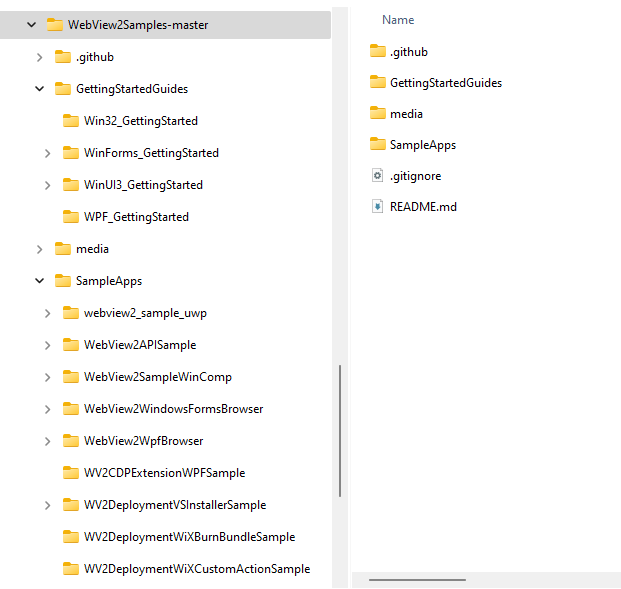
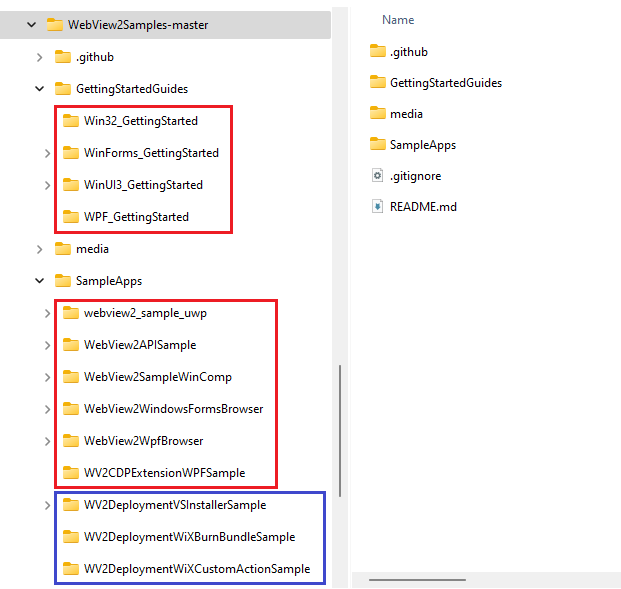
Clarified downloaded dirs in File Explorer capture, stated an .sln location for main win32 sample

Changed region(s): [[0.0612, 0.489, 0.5507, 1.0], [0.0612, 0.1834, 0.3977, 0.3973], [0.0918, 0.1528, 0.3671, 0.1834]]

diff --git a/microsoft-edge/webview2/code-samples-links.md b/microsoft-edge/webview2/code-samples-links.md
@@ -21,32 +21,6 @@ This article is about understanding what samples, `.sln` files, and `README.md` 
 
 
 <!-- ====================================================================== -->
-## Directory structure of the WebView2Samples repo
-
-For general initial Dev environment setup, you can open any of the `.sln` files from the `WebView2Samples` repo:
-
-*  One of the four platform-specific `.sln` files in the [GettingStartedGuides directory](https://github.com/MicrosoftEdge/WebView2Samples/tree/master/GettingStartedGuides).
-
-*  The multi-platform, comprehensive-API `.sln` file in the [SampleApps directory](https://github.com/MicrosoftEdge/WebView2Samples/tree/master/SampleApps).  Has a long [WebView2 API Sample README file](https://github.com/MicrosoftEdge/WebView2Samples/tree/master/SampleApps/WebView2APISample#readme).
-
-*  One of the five platform-specific, comprehensive-API `.sln` files in the [SampleApps directory](https://github.com/MicrosoftEdge/WebView2Samples/tree/master/SampleApps).
-
-
-The `WebView2Samples` repo has two main parts:
-
-*  A set of Get Started solutions (`.sln` files and their various project files).  There is a `README.md` file for each `.sln` file; most of them are very short.  Most documentation is in the present set of articles.
-
-*  A set of comprehensive-API, platform-specific samples (each with its own directory and `.sln` file), including a multi-platform, comprehensive-API `.sln` file.
-
-
-To clone or download this repo, see [Set up your Dev environment for WebView2](how-to/machine-setup.md).
-
-*  If you clone the repo, you can update your local copy using git commands or features of various Dev apps.
-
-*  If you download the repo as a `.zip` file, you get a snapshot copy of the repo.  You can then download another, updated copy of the repo later.
-
-
-<!-- ====================================================================== -->
 ## Sample code for Get Started guides
 
 The WebView2 Get Started guides use starter code for Win32, Windows Presentation Foundation (WPF), WinForms, and WinUI.  These are not comprehensive-API examples, but only demonstrate a few API items.
@@ -81,7 +55,7 @@ The `WebView2Samples` repo contains the following projects.  These projects are 
 
 | Type of sample | Sample Project | Description |
 |---|---|---|
-| Win32 C++ | [WebView2APISample](https://github.com/MicrosoftEdge/WebView2Samples/tree/master/SampleApps/WebView2APISample) | Embeds a WebView2 within a Win32 native application.  Illustrates a selection of WebView2 event handlers and API methods that allow a native Win32 application to directly interact with a WebView and vice versa.<br/><br/>  Built as a Win32 project in [Visual Studio 2019](https://visualstudio.microsoft.com/vs/).  Uses C++ and HTML/CSS/JavaScript in the WebView2 environment. |
+| Win32 C++ | [WebView2APISample](https://github.com/MicrosoftEdge/WebView2Samples/tree/master/SampleApps/WebView2APISample#readme) | Embeds a WebView2 within a Win32 native application.  Illustrates a selection of WebView2 event handlers and API methods that allow a native Win32 application to directly interact with a WebView and vice versa.<br/><br/>  Built as a Win32 project in [Visual Studio 2019](https://visualstudio.microsoft.com/vs/).  Uses C++ and HTML/CSS/JavaScript in the WebView2 environment.<br/><br/>The `.sln` file is in the parent, [SampleApps](https://github.com/MicrosoftEdge/WebView2Samples/tree/master/SampleApps) directory. |
 | Win32 C++ with Visual Composition | [WebView2SampleWinComp](https://github.com/MicrosoftEdge/WebView2Samples/tree/master/SampleApps/WebView2SampleWinComp) | Embeds a WebView2 within a Win32 native application.  Uses [Windows Runtime Composition APIs](/uwp/api/windows.ui.composition), also called the Visual layer, to take advantage of the latest Windows 10 or later UI features and create better look, feel, and functionality in C++ Win32 applications.<br/><br/>  Built as a Win32 project in Visual Studio 2019.  Uses C++ and HTML/CSS/JavaScript in the WebView2 environment. |
 | WinForms | [WebView2WindowsFormsBrowser](https://github.com/MicrosoftEdge/WebView2Samples/tree/master/SampleApps/WebView2WindowsFormsBrowser) | Embeds a WebView2 within a Windows Forms application.<br/><br/>  Built as a Windows Forms project in Visual Studio 2019.  Uses C# and HTML/CSS/JavaScript in the WebView2 environment. |
 | Windows Presentation Foundation (WPF) .NET | [WebView2WpfBrowser](https://github.com/MicrosoftEdge/WebView2Samples/tree/master/SampleApps/WebView2WpfBrowser) | Embeds a WebView2 within a WPF application.<br/><br/>  Built as a WPF project in Visual Studio 2019.  Uses C# and HTML/CSS/JavaScript in the WebView2 environment. |
@@ -104,6 +78,32 @@ This WinUI Controls Gallery sample shows all of the XAML controls in an interact
 The [WV2DeploymentVSInstallerSample](https://github.com/MicrosoftEdge/WebView2Samples/blob/master/SampleApps/WV2DeploymentVSInstallerSample/README.md) uses the [Microsoft Visual Studio Installer Projects](https://marketplace.visualstudio.com/items?itemName=visualstudioclient.MicrosoftVisualStudio2017InstallerProjects) extension for Visual Studio, to create an installer for [WebView2APISample](https://github.com/MicrosoftEdge/WebView2Samples/blob/master/SampleApps/WebView2APISample/README.md) and chain-install the Evergreen WebView2 Runtime.
 
 This sample is a separate installer. It's not part of the `WebView2Samples` repo.
+
+
+<!-- ====================================================================== -->
+## Directory structure of the WebView2Samples repo
+
+For general initial Dev environment setup, you can open any of the `.sln` files from the `WebView2Samples` repo:
+
+*  One of the four platform-specific `.sln` files in the [GettingStartedGuides directory](https://github.com/MicrosoftEdge/WebView2Samples/tree/master/GettingStartedGuides).
+
+*  The multi-platform, comprehensive-API `.sln` file in the [SampleApps directory](https://github.com/MicrosoftEdge/WebView2Samples/tree/master/SampleApps).  Has a long [WebView2 API Sample README file](https://github.com/MicrosoftEdge/WebView2Samples/tree/master/SampleApps/WebView2APISample#readme).
+
+*  One of the five platform-specific, comprehensive-API `.sln` files in the [SampleApps directory](https://github.com/MicrosoftEdge/WebView2Samples/tree/master/SampleApps).
+
+
+The `WebView2Samples` repo has two main parts:
+
+*  A set of Get Started solutions (`.sln` files and their various project files).  There is a `README.md` file for each `.sln` file; most of them are very short.  Most documentation is in the present set of articles.
+
+*  A set of comprehensive-API, platform-specific samples (each with its own directory and `.sln` file), including a multi-platform, comprehensive-API `.sln` file.
+
+
+To clone or download this repo, see [Set up your Dev environment for WebView2](how-to/machine-setup.md).
+
+*  If you clone the repo, you can update your local copy using git commands or features of various Dev apps.
+
+*  If you download the repo as a `.zip` file, you get a snapshot copy of the repo.  You can then download another, updated copy of the repo later.
 
 
 <!-- ====================================================================== -->
